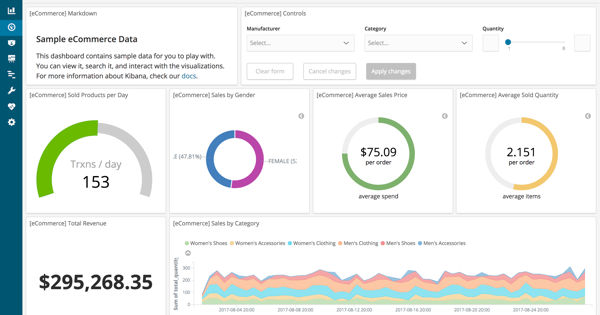
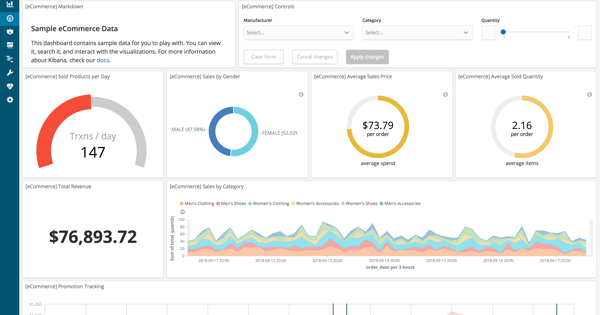
some dashboard changes

diff --git a/src/server/sample_data/data_sets/ecommerce/saved_objects.js b/src/server/sample_data/data_sets/ecommerce/saved_objects.js
@@ -24,8 +24,8 @@ export const savedObjects = [
   {
     "id": "37cc8650-b882-11e8-a6d9-e546fe2bba5f",
     "type": "visualization",
-    "updated_at": "2018-09-15T00:57:07.860Z",
-    "version": 2,
+    "updated_at": "2018-09-18T14:14:35.310Z",
+    "version": 1,
     "attributes": {
       "title": "[eCommerce] Sales by Category",
       "visState": "{\"title\":\"[eCommerce] Sales by Category\",\"type\":\"area\",\"params\":{\"type\":\"area\",\"grid\":{\"categoryLines\":false,\"style\":{\"color\":\"#eee\"}},\"categoryAxes\":[{\"id\":\"CategoryAxis-1\",\"type\":\"category\",\"position\":\"bottom\",\"show\":true,\"style\":{},\"scale\":{\"type\":\"linear\"},\"labels\":{\"show\":true,\"truncate\":100},\"title\":{}}],\"valueAxes\":[{\"id\":\"ValueAxis-1\",\"name\":\"LeftAxis-1\",\"type\":\"value\",\"position\":\"left\",\"show\":true,\"style\":{},\"scale\":{\"type\":\"linear\",\"mode\":\"normal\"},\"labels\":{\"show\":true,\"rotate\":0,\"filter\":false,\"truncate\":100},\"title\":{\"text\":\"Sum of total_quantity\"}}],\"seriesParams\":[{\"show\":\"true\",\"type\":\"area\",\"mode\":\"stacked\",\"data\":{\"label\":\"Sum of total_quantity\",\"id\":\"1\"},\"drawLinesBetweenPoints\":true,\"showCircles\":true,\"interpolate\":\"linear\",\"valueAxis\":\"ValueAxis-1\"}],\"addTooltip\":true,\"addLegend\":true,\"legendPosition\":\"top\",\"times\":[],\"addTimeMarker\":false},\"aggs\":[{\"id\":\"1\",\"enabled\":true,\"type\":\"sum\",\"schema\":\"metric\",\"params\":{\"field\":\"total_quantity\"}},{\"id\":\"2\",\"enabled\":true,\"type\":\"date_histogram\",\"schema\":\"segment\",\"params\":{\"field\":\"order_date\",\"interval\":\"auto\",\"time_zone\":\"America/New_York\",\"drop_partials\":false,\"customInterval\":\"2h\",\"min_doc_count\":1,\"extended_bounds\":{}}},{\"id\":\"3\",\"enabled\":true,\"type\":\"terms\",\"schema\":\"group\",\"params\":{\"field\":\"category.keyword\",\"size\":5,\"order\":\"desc\",\"orderBy\":\"1\",\"otherBucket\":false,\"otherBucketLabel\":\"Other\",\"missingBucket\":false,\"missingBucketLabel\":\"Missing\"}}]}",
@@ -40,7 +40,7 @@ export const savedObjects = [
   {
     "id": "ed8436b0-b88b-11e8-a6d9-e546fe2bba5f",
     "type": "visualization",
-    "updated_at": "2018-09-15T02:06:15.963Z",
+    "updated_at": "2018-09-18T14:14:35.310Z",
     "version": 1,
     "attributes": {
       "title": "[eCommerce] Sales by Gender",
@@ -56,8 +56,8 @@ export const savedObjects = [
   {
     "id": "09ffee60-b88c-11e8-a6d9-e546fe2bba5f",
     "type": "visualization",
-    "updated_at": "2018-09-15T03:08:29.366Z",
-    "version": 2,
+    "updated_at": "2018-09-18T14:14:35.310Z",
+    "version": 1,
     "attributes": {
       "title": "[eCommerce] Markdown",
       "visState": "{\"title\":\"[eCommerce] Markdown\",\"type\":\"markdown\",\"params\":{\"fontSize\":12,\"openLinksInNewTab\":false,\"markdown\":\"### Sample eCommerce Data\\nThis dashboard contains sample data for you to play with. You can view it, search it, and interact with the visualizations. For more information about Kibana, check our [docs](https://www.elastic.co/guide/en/kibana/current/index.html).\"},\"aggs\":[]}",
@@ -72,7 +72,7 @@ export const savedObjects = [
   {
     "id": "1c389590-b88d-11e8-a6d9-e546fe2bba5f",
     "type": "visualization",
-    "updated_at": "2018-09-15T02:14:43.817Z",
+    "updated_at": "2018-09-18T14:14:35.310Z",
     "version": 1,
     "attributes": {
       "title": "[eCommerce] Controls",
@@ -88,11 +88,11 @@ export const savedObjects = [
   {
     "id": "45e07720-b890-11e8-a6d9-e546fe2bba5f",
     "type": "visualization",
-    "updated_at": "2018-09-15T02:37:22.194Z",
-    "version": 1,
+    "updated_at": "2018-09-18T14:16:18.181Z",
+    "version": 2,
     "attributes": {
       "title": "[eCommerce] Promotion Tracking",
-      "visState": "{\"title\":\"[eCommerce] Promotion Tracking\",\"type\":\"metrics\",\"params\":{\"id\":\"61ca57f0-469d-11e7-af02-69e470af7417\",\"type\":\"timeseries\",\"series\":[{\"id\":\"61ca57f1-469d-11e7-af02-69e470af7417\",\"color\":\"rgba(23,233,230,1)\",\"split_mode\":\"filter\",\"metrics\":[{\"id\":\"61ca57f2-469d-11e7-af02-69e470af7417\",\"type\":\"sum\",\"field\":\"taxful_total_price\"}],\"separate_axis\":0,\"axis_position\":\"right\",\"formatter\":\"number\",\"chart_type\":\"line\",\"line_width\":1,\"point_size\":1,\"fill\":0.5,\"stacked\":\"none\",\"filter\":\"(sku:K4452HA16-Q11 OR sku:K4452HA18-O11 OR sku:K4452HA16-O11 OR sku:K4452HA18-Q11 OR sku:K4452HA04-Q11 OR sku:K4452HA0P-O11 OR sku:K4452HA17-Q11 OR sku:K4452HA17-O11)\",\"label\":\"Revenue Bags\",\"value_template\":\"${{value}}\"},{\"id\":\"ea20ae70-b88d-11e8-a451-f37365e9f268\",\"color\":\"rgba(240,138,217,1)\",\"split_mode\":\"filter\",\"metrics\":[{\"id\":\"ea20ae71-b88d-11e8-a451-f37365e9f268\",\"type\":\"sum\",\"field\":\"taxful_total_price\"}],\"separate_axis\":0,\"axis_position\":\"right\",\"formatter\":\"number\",\"chart_type\":\"line\",\"line_width\":1,\"point_size\":1,\"fill\":0.5,\"stacked\":\"none\",\"filter\":\"sku:K4422EA0L-C12 OR sku: K4422EA0K-K11 OR sku:K4422EA0K-G11 OR sku:K4422EA0L-C11 OR sku:K4422AA0L-K11 OR sku:K4422EA0E-K11 OR sku:K4422EA0E-Q11 OR sku:K4422EA0E-C11\",\"label\":\"Revenue Trousers\",\"value_template\":\"${{value}}\"},{\"id\":\"faa2c170-b88d-11e8-a451-f37365e9f268\",\"color\":\"rgba(235,186,180,1)\",\"split_mode\":\"filter\",\"metrics\":[{\"id\":\"faa2c171-b88d-11e8-a451-f37365e9f268\",\"type\":\"sum\",\"field\":\"taxful_total_price\"}],\"separate_axis\":0,\"axis_position\":\"right\",\"formatter\":\"number\",\"chart_type\":\"line\",\"line_width\":1,\"point_size\":1,\"fill\":0.5,\"stacked\":\"none\",\"filter\":\"sku:K4421CA2P-Q11 OR sku:K4421CA3H-Q11 OR sku:K4421CA2S-Q11 OR sku:K4421CA2A-G11 OR sku:K4421CA2F-D11 OR sku:K4421CA2W-G11 OR sku:K4421CA3J-Q11\",\"label\":\"Revenue Cocktail Dresses\",\"value_template\":\"${{value}}\"},{\"id\":\"062d77b0-b88e-11e8-a451-f37365e9f268\",\"color\":\"rgba(191,240,129,1)\",\"split_mode\":\"filter\",\"metrics\":[{\"id\":\"062d77b1-b88e-11e8-a451-f37365e9f268\",\"type\":\"sum\",\"field\":\"taxful_total_price\"}],\"separate_axis\":0,\"axis_position\":\"right\",\"formatter\":\"number\",\"chart_type\":\"line\",\"line_width\":1,\"point_size\":1,\"fill\":0.5,\"stacked\":\"none\",\"filter\":\"sku:K4452EA0G-D12 OR sku:K4452EA0G-D11 OR sku:K4452EA0H-D12 OR sku:K4452EA0G-Q11 OR sku:K4452EA0H-D11 OR sku:K4452EA0E-C11 OR sku:K4451EA16-D11 OR sku:K4452EA08-O11\",\"label\":\"Revenue Watches\",\"value_template\":\"${{value}}\"}],\"time_field\":\"order_date\",\"index_pattern\":\"kibana_sample_data_ecommerce\",\"interval\":\"auto\",\"axis_position\":\"left\",\"axis_formatter\":\"number\",\"axis_scale\":\"normal\",\"show_legend\":1,\"show_grid\":1,\"legend_position\":\"bottom\",\"annotations\":[{\"fields\":\"taxful_total_price\",\"template\":\"Ring the bell! ${{taxful_total_price}}\",\"index_pattern\":\"kibana_sample_data_ecommerce\",\"query_string\":\"taxful_total_price:>250\",\"id\":\"c8c30be0-b88f-11e8-a451-f37365e9f268\",\"color\":\"rgba(25,77,51,1)\",\"time_field\":\"order_date\",\"icon\":\"fa-bell\",\"ignore_global_filters\":1,\"ignore_panel_filters\":1}]},\"aggs\":[]}",
+      "visState": "{\"title\":\"[eCommerce] Promotion Tracking\",\"type\":\"metrics\",\"params\":{\"id\":\"61ca57f0-469d-11e7-af02-69e470af7417\",\"type\":\"timeseries\",\"series\":[{\"id\":\"61ca57f1-469d-11e7-af02-69e470af7417\",\"color\":\"rgba(23,233,230,1)\",\"split_mode\":\"everything\",\"metrics\":[{\"id\":\"61ca57f2-469d-11e7-af02-69e470af7417\",\"type\":\"sum\",\"field\":\"taxful_total_price\"}],\"separate_axis\":0,\"axis_position\":\"right\",\"formatter\":\"number\",\"chart_type\":\"line\",\"line_width\":1,\"point_size\":1,\"fill\":0.5,\"stacked\":\"none\",\"filter\":\"products.product_name:*bag*\",\"label\":\"Revenue Bags\",\"value_template\":\"${{value}}\"},{\"id\":\"ea20ae70-b88d-11e8-a451-f37365e9f268\",\"color\":\"rgba(240,138,217,1)\",\"split_mode\":\"everything\",\"metrics\":[{\"id\":\"ea20ae71-b88d-11e8-a451-f37365e9f268\",\"type\":\"sum\",\"field\":\"taxful_total_price\"}],\"separate_axis\":0,\"axis_position\":\"right\",\"formatter\":\"number\",\"chart_type\":\"line\",\"line_width\":1,\"point_size\":1,\"fill\":0.5,\"stacked\":\"none\",\"filter\":\"products.product_name:*trouster*\",\"label\":\"Revenue Trousers\",\"value_template\":\"${{value}}\"},{\"id\":\"faa2c170-b88d-11e8-a451-f37365e9f268\",\"color\":\"rgba(235,186,180,1)\",\"split_mode\":\"everything\",\"metrics\":[{\"id\":\"faa2c171-b88d-11e8-a451-f37365e9f268\",\"type\":\"sum\",\"field\":\"taxful_total_price\"}],\"separate_axis\":0,\"axis_position\":\"right\",\"formatter\":\"number\",\"chart_type\":\"line\",\"line_width\":1,\"point_size\":1,\"fill\":0.5,\"stacked\":\"none\",\"filter\":\"products.product_name:*cocktail dress*\",\"label\":\"Revenue Cocktail Dresses\",\"value_template\":\"${{value}}\"},{\"id\":\"062d77b0-b88e-11e8-a451-f37365e9f268\",\"color\":\"rgba(191,240,129,1)\",\"split_mode\":\"everything\",\"metrics\":[{\"id\":\"062d77b1-b88e-11e8-a451-f37365e9f268\",\"type\":\"sum\",\"field\":\"taxful_total_price\"}],\"separate_axis\":0,\"axis_position\":\"right\",\"formatter\":\"number\",\"chart_type\":\"line\",\"line_width\":1,\"point_size\":1,\"fill\":0.5,\"stacked\":\"none\",\"filter\":\"products.product_name:*watch*\",\"label\":\"Revenue Watches\",\"value_template\":\"${{value}}\"}],\"time_field\":\"order_date\",\"index_pattern\":\"kibana_sample_data_ecommerce\",\"interval\":\">=12h\",\"axis_position\":\"left\",\"axis_formatter\":\"number\",\"axis_scale\":\"normal\",\"show_legend\":1,\"show_grid\":1,\"legend_position\":\"bottom\",\"annotations\":[{\"fields\":\"taxful_total_price\",\"template\":\"Ring the bell! ${{taxful_total_price}}\",\"index_pattern\":\"kibana_sample_data_ecommerce\",\"query_string\":\"taxful_total_price:>250\",\"id\":\"c8c30be0-b88f-11e8-a451-f37365e9f268\",\"color\":\"rgba(25,77,51,1)\",\"time_field\":\"order_date\",\"icon\":\"fa-bell\",\"ignore_global_filters\":1,\"ignore_panel_filters\":1}]},\"aggs\":[]}",
       "uiStateJSON": "{}",
       "description": "",
       "version": 1,
@@ -104,8 +104,8 @@ export const savedObjects = [
   {
     "id": "10f1a240-b891-11e8-a6d9-e546fe2bba5f",
     "type": "visualization",
-    "updated_at": "2018-09-15T02:44:02.340Z",
-    "version": 2,
+    "updated_at": "2018-09-18T14:14:35.310Z",
+    "version": 1,
     "attributes": {
       "title": "[eCommerce] Total Revenue",
       "visState": "{\"title\":\"[eCommerce] Total Revenue\",\"type\":\"metric\",\"params\":{\"addTooltip\":true,\"addLegend\":false,\"type\":\"metric\",\"metric\":{\"percentageMode\":false,\"useRanges\":false,\"colorSchema\":\"Green to Red\",\"metricColorMode\":\"None\",\"colorsRange\":[{\"from\":0,\"to\":10000}],\"labels\":{\"show\":false},\"invertColors\":false,\"style\":{\"bgFill\":\"#000\",\"bgColor\":false,\"labelColor\":false,\"subText\":\"\",\"fontSize\":36}}},\"aggs\":[{\"id\":\"1\",\"enabled\":true,\"type\":\"sum\",\"schema\":\"metric\",\"params\":{\"field\":\"taxful_total_price\",\"customLabel\":\"Total Revenue\"}}]}",
@@ -120,8 +120,8 @@ export const savedObjects = [
   {
     "id": "b80e6540-b891-11e8-a6d9-e546fe2bba5f",
     "type": "visualization",
-    "updated_at": "2018-09-15T02:48:19.728Z",
-    "version": 2,
+    "updated_at": "2018-09-18T14:14:35.310Z",
+    "version": 1,
     "attributes": {
       "title": "[eCommerce] Sold Products per Day",
       "visState": "{\"title\":\"[eCommerce] Sold Products per Day\",\"type\":\"metrics\",\"params\":{\"id\":\"61ca57f0-469d-11e7-af02-69e470af7417\",\"type\":\"gauge\",\"series\":[{\"id\":\"61ca57f1-469d-11e7-af02-69e470af7417\",\"color\":\"#68BC00\",\"split_mode\":\"everything\",\"metrics\":[{\"id\":\"61ca57f2-469d-11e7-af02-69e470af7417\",\"type\":\"count\"}],\"separate_axis\":0,\"axis_position\":\"right\",\"formatter\":\"number\",\"chart_type\":\"line\",\"line_width\":1,\"point_size\":1,\"fill\":0.5,\"stacked\":\"none\",\"label\":\"Trxns / day\"}],\"time_field\":\"order_date\",\"index_pattern\":\"kibana_sample_data_ecommerce\",\"interval\":\"1d\",\"axis_position\":\"left\",\"axis_formatter\":\"number\",\"axis_scale\":\"normal\",\"show_legend\":1,\"show_grid\":1,\"gauge_color_rules\":[{\"value\":150,\"id\":\"6da070c0-b891-11e8-b645-195edeb9de84\",\"gauge\":\"rgba(104,188,0,1)\",\"operator\":\"gte\"},{\"value\":150,\"id\":\"9b0cdbc0-b891-11e8-b645-195edeb9de84\",\"gauge\":\"rgba(244,78,59,1)\",\"operator\":\"lt\"}],\"gauge_width\":\"15\",\"gauge_inner_width\":10,\"gauge_style\":\"half\",\"filter\":\"\",\"gauge_max\":\"300\"},\"aggs\":[]}",
@@ -136,7 +136,7 @@ export const savedObjects = [
   {
     "id": "4b3ec120-b892-11e8-a6d9-e546fe2bba5f",
     "type": "visualization",
-    "updated_at": "2018-09-15T02:51:50.194Z",
+    "updated_at": "2018-09-18T14:14:35.310Z",
     "version": 1,
     "attributes": {
       "title": "[eCommerce] Average Sales Price",
@@ -152,8 +152,8 @@ export const savedObjects = [
   {
     "id": "9ca7aa90-b892-11e8-a6d9-e546fe2bba5f",
     "type": "visualization",
-    "updated_at": "2018-09-15T02:54:53.501Z",
-    "version": 2,
+    "updated_at": "2018-09-18T14:14:35.310Z",
+    "version": 1,
     "attributes": {
       "title": "[eCommerce] Average Sold Quantity",
       "visState": "{\"title\":\"[eCommerce] Average Sold Quantity\",\"type\":\"gauge\",\"params\":{\"type\":\"gauge\",\"addTooltip\":true,\"addLegend\":true,\"isDisplayWarning\":false,\"gauge\":{\"verticalSplit\":false,\"extendRange\":true,\"percentageMode\":false,\"gaugeType\":\"Circle\",\"gaugeStyle\":\"Full\",\"backStyle\":\"Full\",\"orientation\":\"vertical\",\"colorSchema\":\"Green to Red\",\"gaugeColorMode\":\"Labels\",\"colorsRange\":[{\"from\":0,\"to\":2},{\"from\":2,\"to\":3},{\"from\":3,\"to\":4}],\"invertColors\":true,\"labels\":{\"show\":true,\"color\":\"black\"},\"scale\":{\"show\":false,\"labels\":false,\"color\":\"#333\"},\"type\":\"meter\",\"style\":{\"bgWidth\":0.9,\"width\":0.9,\"mask\":false,\"bgMask\":false,\"maskBars\":50,\"bgFill\":\"#eee\",\"bgColor\":false,\"subText\":\"per order\",\"fontSize\":60,\"labelColor\":true},\"minAngle\":0,\"maxAngle\":6.283185307179586}},\"aggs\":[{\"id\":\"1\",\"enabled\":true,\"type\":\"avg\",\"schema\":\"metric\",\"params\":{\"field\":\"total_quantity\",\"customLabel\":\"average items\"}}]}",
@@ -168,7 +168,7 @@ export const savedObjects = [
   {
     "id": "3ba638e0-b894-11e8-a6d9-e546fe2bba5f",
     "type": "search",
-    "updated_at": "2018-09-15T03:05:43.022Z",
+    "updated_at": "2018-09-18T14:14:35.310Z",
     "version": 1,
     "attributes": {
       "title": "[eCommerce] Orders",
@@ -191,10 +191,42 @@ export const savedObjects = [
     }
   },
   {
+    "id": "9c6f83f0-bb4d-11e8-9c84-77068524bcab",
+    "type": "visualization",
+    "updated_at": "2018-09-18T14:17:44.622Z",
+    "version": 1,
+    "attributes": {
+      "title": "[eCommerce] Average Sales Per Region",
+      "visState": "{\"title\":\"[eCommerce] Average Sales Per Region\",\"type\":\"region_map\",\"params\":{\"legendPosition\":\"bottomright\",\"addTooltip\":true,\"colorSchema\":\"Blues\",\"selectedLayer\":{\"attribution\":\"<p><a href=\\\"http://www.naturalearthdata.com/about/terms-of-use\\\">Made with NaturalEarth</a>|<a href=\\\"https://www.elastic.co/elastic-maps-service\\\">Elastic Maps Service</a></p>&#10;\",\"weight\":1,\"name\":\"World Countries\",\"url\":\"https://vector.maps.elastic.co/blob/5659313586569216?elastic_tile_service_tos=agree&my_app_version=7.0.0-alpha1&license=f6c534b8-91b9-4499-8804-a2e9789ecc95\",\"format\":{\"type\":\"geojson\"},\"fields\":[{\"name\":\"iso2\",\"description\":\"Two letter abbreviation\"},{\"name\":\"name\",\"description\":\"Country name\"},{\"name\":\"iso3\",\"description\":\"Three letter abbreviation\"}],\"created_at\":\"2017-04-26T17:12:15.978370\",\"tags\":[],\"id\":5659313586569216,\"layerId\":\"elastic_maps_service.World Countries\",\"isEMS\":true},\"emsHotLink\":\"https://maps.elastic.co/v2#file/World Countries\",\"selectedJoinField\":{\"name\":\"iso2\",\"description\":\"Two letter abbreviation\"},\"isDisplayWarning\":true,\"wms\":{\"enabled\":false,\"options\":{\"format\":\"image/png\",\"transparent\":true}},\"mapZoom\":2,\"mapCenter\":[0,0],\"outlineWeight\":1,\"showAllShapes\":true},\"aggs\":[{\"id\":\"1\",\"enabled\":true,\"type\":\"avg\",\"schema\":\"metric\",\"params\":{\"field\":\"taxful_total_price\",\"customLabel\":\"Average Sale\"}},{\"id\":\"2\",\"enabled\":true,\"type\":\"terms\",\"schema\":\"segment\",\"params\":{\"field\":\"geoip.country_iso_code\",\"size\":100,\"order\":\"desc\",\"orderBy\":\"1\",\"otherBucket\":false,\"otherBucketLabel\":\"Other\",\"missingBucket\":false,\"missingBucketLabel\":\"Missing\"}}]}",
+      "uiStateJSON": "{}",
+      "description": "",
+      "version": 1,
+      "kibanaSavedObjectMeta": {
+        "searchSourceJSON": "{\"index\":\"ff959d40-b880-11e8-a6d9-e546fe2bba5f\",\"query\":{\"query\":\"\",\"language\":\"lucene\"},\"filter\":[]}"
+      }
+    }
+  },
+  {
+    "id": "b72dd430-bb4d-11e8-9c84-77068524bcab",
+    "type": "visualization",
+    "updated_at": "2018-09-18T14:18:42.554Z",
+    "version": 2,
+    "attributes": {
+      "title": "[eCommerce] Top Selling Products",
+      "visState": "{\"title\":\"[eCommerce] Top Selling Products\",\"type\":\"tagcloud\",\"params\":{\"scale\":\"linear\",\"orientation\":\"single\",\"minFontSize\":18,\"maxFontSize\":72,\"showLabel\":false},\"aggs\":[{\"id\":\"1\",\"enabled\":true,\"type\":\"count\",\"schema\":\"metric\",\"params\":{}},{\"id\":\"2\",\"enabled\":true,\"type\":\"terms\",\"schema\":\"segment\",\"params\":{\"field\":\"products.product_name.keyword\",\"size\":7,\"order\":\"desc\",\"orderBy\":\"1\",\"otherBucket\":false,\"otherBucketLabel\":\"Other\",\"missingBucket\":false,\"missingBucketLabel\":\"Missing\"}}]}",
+      "uiStateJSON": "{}",
+      "description": "",
+      "version": 1,
+      "kibanaSavedObjectMeta": {
+        "searchSourceJSON": "{\"index\":\"ff959d40-b880-11e8-a6d9-e546fe2bba5f\",\"query\":{\"query\":\"\",\"language\":\"lucene\"},\"filter\":[]}"
+      }
+    }
+  },
+  {
     "id": "ff959d40-b880-11e8-a6d9-e546fe2bba5f",
     "type": "index-pattern",
-    "updated_at": "2018-09-15T03:05:23.226Z",
-    "version": 9,
+    "updated_at": "2018-09-18T14:14:35.310Z",
+    "version": 1,
     "attributes": {
       "title": "kibana_sample_data_ecommerce",
       "timeFieldName": "order_date",
@@ -205,22 +237,20 @@ export const savedObjects = [
   {
     "id": "722b74f0-b882-11e8-a6d9-e546fe2bba5f",
     "type": "dashboard",
-    "updated_at": "2018-09-15T03:09:45.753Z",
-    "version": 7,
+    "updated_at": "2018-09-18T14:19:09.753Z",
+    "version": 2,
     "attributes": {
       "title": "[eCommerce] Revenue Dashboard",
       "hits": 0,
       "description": "Analyze mock eCommerce orders",
-      "panelsJSON": "[{\"embeddableConfig\":{\"vis\":{\"colors\":{\"Men's Accessories\":\"#82B5D8\",\"Men's Clothing\":\"#F9BA8F\",\"Men's Shoes\":\"#F29191\",\"Women's Accessories\":\"#F4D598\",\"Women's Clothing\":\"#70DBED\",\"Women's Shoes\":\"#B7DBAB\"}}},\"gridData\":{\"h\":10,\"i\":\"1\",\"w\":36,\"x\":12,\"y\":18},\"id\":\"37cc8650-b882-11e8-a6d9-e546fe2bba5f\",\"panelIndex\":\"1\",\"type\":\"visualization\",\"version\":\"7.0.0-alpha1\"},{\"embeddableConfig\":{\"vis\":{\"colors\":{\"FEMALE\":\"#BA43A9\",\"MALE\":\"#447EBC\"},\"legendOpen\":false}},\"gridData\":{\"h\":11,\"i\":\"2\",\"w\":12,\"x\":12,\"y\":7},\"id\":\"ed8436b0-b88b-11e8-a6d9-e546fe2bba5f\",\"panelIndex\":\"2\",\"type\":\"visualization\",\"version\":\"7.0.0-alpha1\"},{\"embeddableConfig\":{},\"gridData\":{\"h\":7,\"i\":\"3\",\"w\":18,\"x\":0,\"y\":0},\"id\":\"09ffee60-b88c-11e8-a6d9-e546fe2bba5f\",\"panelIndex\":\"3\",\"type\":\"visualization\",\"version\":\"7.0.0-alpha1\"},{\"embeddableConfig\":{},\"gridData\":{\"h\":7,\"i\":\"4\",\"w\":30,\"x\":18,\"y\":0},\"id\":\"1c389590-b88d-11e8-a6d9-e546fe2bba5f\",\"panelIndex\":\"4\",\"type\":\"visualization\",\"version\":\"7.0.0-alpha1\"},{\"embeddableConfig\":{},\"gridData\":{\"h\":11,\"i\":\"5\",\"w\":48,\"x\":0,\"y\":28},\"id\":\"45e07720-b890-11e8-a6d9-e546fe2bba5f\",\"panelIndex\":\"5\",\"type\":\"visualization\",\"version\":\"7.0.0-alpha1\"},{\"embeddableConfig\":{},\"gridData\":{\"h\":10,\"i\":\"6\",\"w\":12,\"x\":0,\"y\":18},\"id\":\"10f1a240-b891-11e8-a6d9-e546fe2bba5f\",\"panelIndex\":\"6\",\"type\":\"visualization\",\"version\":\"7.0.0-alpha1\"},{\"embeddableConfig\":{},\"gridData\":{\"h\":11,\"i\":\"7\",\"w\":12,\"x\":0,\"y\":7},\"id\":\"b80e6540-b891-11e8-a6d9-e546fe2bba5f\",\"panelIndex\":\"7\",\"type\":\"visualization\",\"version\":\"7.0.0-alpha1\"},{\"embeddableConfig\":{\"vis\":{\"colors\":{\"0 - 50\":\"#E24D42\",\"50 - 75\":\"#EAB839\",\"75 - 100\":\"#7EB26D\"},\"defaultColors\":{\"0 - 50\":\"rgb(165,0,38)\",\"50 - 75\":\"rgb(255,255,190)\",\"75 - 100\":\"rgb(0,104,55)\"},\"legendOpen\":false}},\"gridData\":{\"h\":11,\"i\":\"8\",\"w\":12,\"x\":24,\"y\":7},\"id\":\"4b3ec120-b892-11e8-a6d9-e546fe2bba5f\",\"panelIndex\":\"8\",\"type\":\"visualization\",\"version\":\"7.0.0-alpha1\"},{\"embeddableConfig\":{\"vis\":{\"colors\":{\"0 - 2\":\"#E24D42\",\"2 - 3\":\"#F2C96D\",\"3 - 4\":\"#9AC48A\"},\"defaultColors\":{\"0 - 2\":\"rgb(165,0,38)\",\"2 - 3\":\"rgb(255,255,190)\",\"3 - 4\":\"rgb(0,104,55)\"},\"legendOpen\":false}},\"gridData\":{\"h\":11,\"i\":\"9\",\"w\":12,\"x\":36,\"y\":7},\"id\":\"9ca7aa90-b892-11e8-a6d9-e546fe2bba5f\",\"panelIndex\":\"9\",\"type\":\"visualization\",\"version\":\"7.0.0-alpha1\"},{\"embeddableConfig\":{},\"gridData\":{\"h\":18,\"i\":\"10\",\"w\":48,\"x\":0,\"y\":39},\"id\":\"3ba638e0-b894-11e8-a6d9-e546fe2bba5f\",\"panelIndex\":\"10\",\"type\":\"search\",\"version\":\"7.0.0-alpha1\"}]",
+      "panelsJSON": "[{\"embeddableConfig\":{\"vis\":{\"colors\":{\"Men's Accessories\":\"#82B5D8\",\"Men's Clothing\":\"#F9BA8F\",\"Men's Shoes\":\"#F29191\",\"Women's Accessories\":\"#F4D598\",\"Women's Clothing\":\"#70DBED\",\"Women's Shoes\":\"#B7DBAB\"}}},\"gridData\":{\"x\":12,\"y\":18,\"w\":36,\"h\":10,\"i\":\"1\"},\"id\":\"37cc8650-b882-11e8-a6d9-e546fe2bba5f\",\"panelIndex\":\"1\",\"type\":\"visualization\",\"version\":\"7.0.0-alpha1\"},{\"embeddableConfig\":{\"vis\":{\"colors\":{\"FEMALE\":\"#6ED0E0\",\"MALE\":\"#447EBC\"},\"legendOpen\":false}},\"gridData\":{\"x\":12,\"y\":7,\"w\":12,\"h\":11,\"i\":\"2\"},\"id\":\"ed8436b0-b88b-11e8-a6d9-e546fe2bba5f\",\"panelIndex\":\"2\",\"type\":\"visualization\",\"version\":\"7.0.0-alpha1\"},{\"embeddableConfig\":{},\"gridData\":{\"x\":0,\"y\":0,\"w\":18,\"h\":7,\"i\":\"3\"},\"id\":\"09ffee60-b88c-11e8-a6d9-e546fe2bba5f\",\"panelIndex\":\"3\",\"type\":\"visualization\",\"version\":\"7.0.0-alpha1\"},{\"embeddableConfig\":{},\"gridData\":{\"x\":18,\"y\":0,\"w\":30,\"h\":7,\"i\":\"4\"},\"id\":\"1c389590-b88d-11e8-a6d9-e546fe2bba5f\",\"panelIndex\":\"4\",\"type\":\"visualization\",\"version\":\"7.0.0-alpha1\"},{\"embeddableConfig\":{},\"gridData\":{\"x\":0,\"y\":28,\"w\":48,\"h\":11,\"i\":\"5\"},\"id\":\"45e07720-b890-11e8-a6d9-e546fe2bba5f\",\"panelIndex\":\"5\",\"type\":\"visualization\",\"version\":\"7.0.0-alpha1\"},{\"embeddableConfig\":{},\"gridData\":{\"x\":0,\"y\":18,\"w\":12,\"h\":10,\"i\":\"6\"},\"id\":\"10f1a240-b891-11e8-a6d9-e546fe2bba5f\",\"panelIndex\":\"6\",\"type\":\"visualization\",\"version\":\"7.0.0-alpha1\"},{\"embeddableConfig\":{},\"gridData\":{\"x\":0,\"y\":7,\"w\":12,\"h\":11,\"i\":\"7\"},\"id\":\"b80e6540-b891-11e8-a6d9-e546fe2bba5f\",\"panelIndex\":\"7\",\"type\":\"visualization\",\"version\":\"7.0.0-alpha1\"},{\"embeddableConfig\":{\"vis\":{\"colors\":{\"0 - 50\":\"#E24D42\",\"50 - 75\":\"#EAB839\",\"75 - 100\":\"#7EB26D\"},\"defaultColors\":{\"0 - 50\":\"rgb(165,0,38)\",\"50 - 75\":\"rgb(255,255,190)\",\"75 - 100\":\"rgb(0,104,55)\"},\"legendOpen\":false}},\"gridData\":{\"x\":24,\"y\":7,\"w\":12,\"h\":11,\"i\":\"8\"},\"id\":\"4b3ec120-b892-11e8-a6d9-e546fe2bba5f\",\"panelIndex\":\"8\",\"type\":\"visualization\",\"version\":\"7.0.0-alpha1\"},{\"embeddableConfig\":{\"vis\":{\"colors\":{\"0 - 2\":\"#E24D42\",\"2 - 3\":\"#F2C96D\",\"3 - 4\":\"#9AC48A\"},\"defaultColors\":{\"0 - 2\":\"rgb(165,0,38)\",\"2 - 3\":\"rgb(255,255,190)\",\"3 - 4\":\"rgb(0,104,55)\"},\"legendOpen\":false}},\"gridData\":{\"x\":36,\"y\":7,\"w\":12,\"h\":11,\"i\":\"9\"},\"id\":\"9ca7aa90-b892-11e8-a6d9-e546fe2bba5f\",\"panelIndex\":\"9\",\"type\":\"visualization\",\"version\":\"7.0.0-alpha1\"},{\"embeddableConfig\":{},\"gridData\":{\"x\":0,\"y\":54,\"w\":48,\"h\":18,\"i\":\"10\"},\"id\":\"3ba638e0-b894-11e8-a6d9-e546fe2bba5f\",\"panelIndex\":\"10\",\"type\":\"search\",\"version\":\"7.0.0-alpha1\"},{\"embeddableConfig\":{\"mapZoom\":2,\"mapCenter\":[28.304380682962783,-22.148437500000004]},\"gridData\":{\"x\":0,\"y\":39,\"w\":24,\"h\":15,\"i\":\"11\"},\"id\":\"9c6f83f0-bb4d-11e8-9c84-77068524bcab\",\"panelIndex\":\"11\",\"type\":\"visualization\",\"version\":\"7.0.0-alpha1\"},{\"embeddableConfig\":{},\"gridData\":{\"x\":24,\"y\":39,\"w\":24,\"h\":15,\"i\":\"12\"},\"id\":\"b72dd430-bb4d-11e8-9c84-77068524bcab\",\"panelIndex\":\"12\",\"type\":\"visualization\",\"version\":\"7.0.0-alpha1\"}]",
       "optionsJSON": "{\"darkTheme\":false,\"hidePanelTitles\":false,\"useMargins\":true}",
       "version": 1,
       "timeRestore": true,
       "timeTo": "now",
       "timeFrom": "now-7d",
       "refreshInterval": {
-        "display": "15 minutes",
         "pause": false,
-        "section": 2,
         "value": 900000
       },
       "kibanaSavedObjectMeta": {

diff --git a/test/functional/apps/home/_sample_data.js b/test/functional/apps/home/_sample_data.js
@@ -136,7 +136,7 @@ export default function ({ getService, getPageObjects }) {
         const toTime = `${todayYearMonthDay} 23:59:59.999`;
         await PageObjects.header.setAbsoluteRange(fromTime, toTime);
         const panelCount = await PageObjects.dashboard.getPanelCount();
-        expect(panelCount).to.be(10);
+        expect(panelCount).to.be(12);
       });
 
     });
